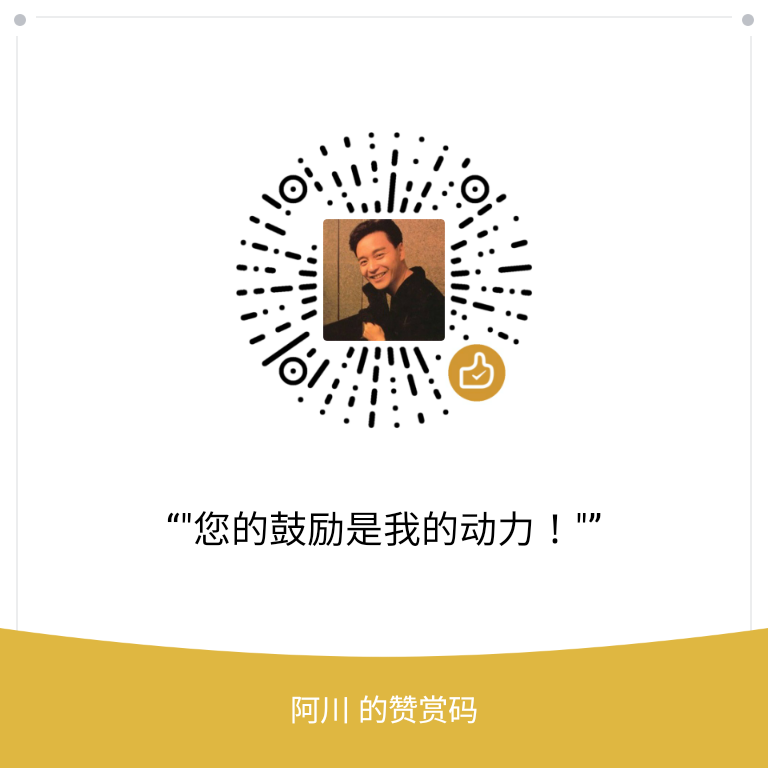
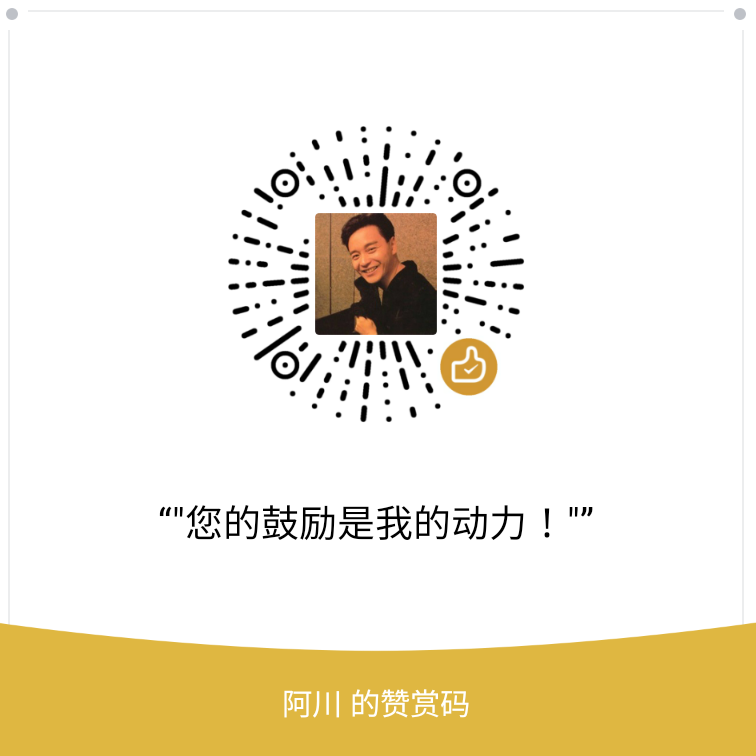
修改了微信二维码尺寸

diff --git a/_includes/disqus.html b/_includes/disqus.html
@@ -54,13 +54,3 @@ t.js';
 
 <span class="wpac-cr" onclick="replaceDoc()" >点击加载 Widgetpack 评论</span> -->
 
-<!-- 畅言 > PC和WAP自适应版
-<div id="SOHUCS" sid="{{ page.url }}" ></div> 
-<script type="text/javascript"> 
-(function(){ 
-var appid = 'cytP764Xy'; 
-var conf = 'prod_e07acf25d47ada3ffbb008e686707ff6'; 
-var width = window.innerWidth || document.documentElement.clientWidth; 
-if (width < 960) { 
-window.document.write('<script id="changyan_mobile_js" charset="utf-8" type="text/javascript" src="https://changyan.sohu.com/upload/mobile/wap-js/changyan_mobile.js?client_id=' + appid + '&conf=' + conf + '"><\/script>'); } else { var loadJs=function(d,a){var c=document.getElementsByTagName("head")[0]||document.head||document.documentElement;var b=document.createElement("script");b.setAttribute("type","text/javascript");b.setAttribute("charset","UTF-8");b.setAttribute("src",d);if(typeof a==="function"){if(window.attachEvent){b.onreadystatechange=function(){var e=b.readyState;if(e==="loaded"||e==="complete"){b.onreadystatechange=null;a()}}}else{b.onload=a}}c.appendChild(b)};loadJs("https://changyan.sohu.com/upload/changyan.js",function(){window.changyan.api.config({appid:appid,conf:conf})}); } })(); </script>
--->
